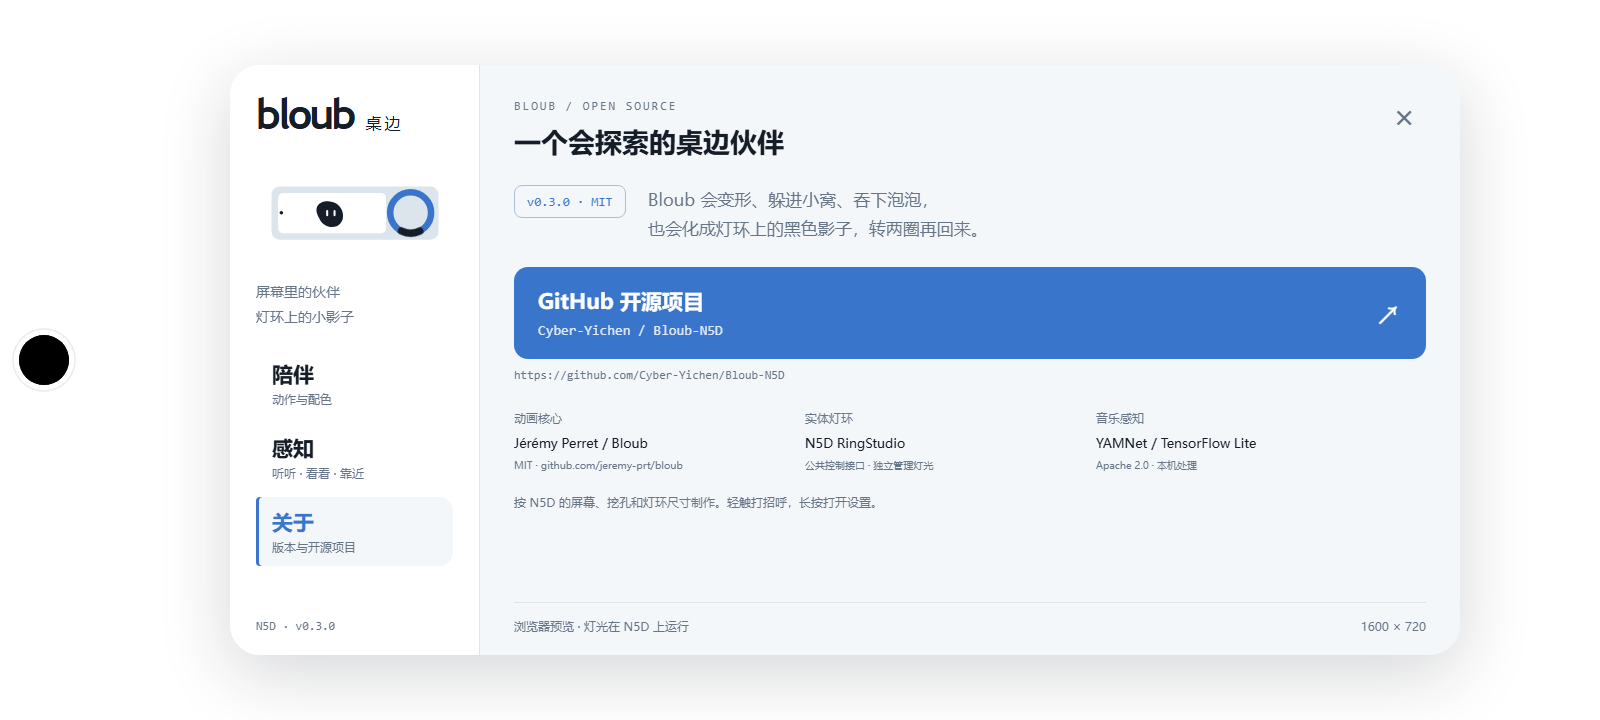
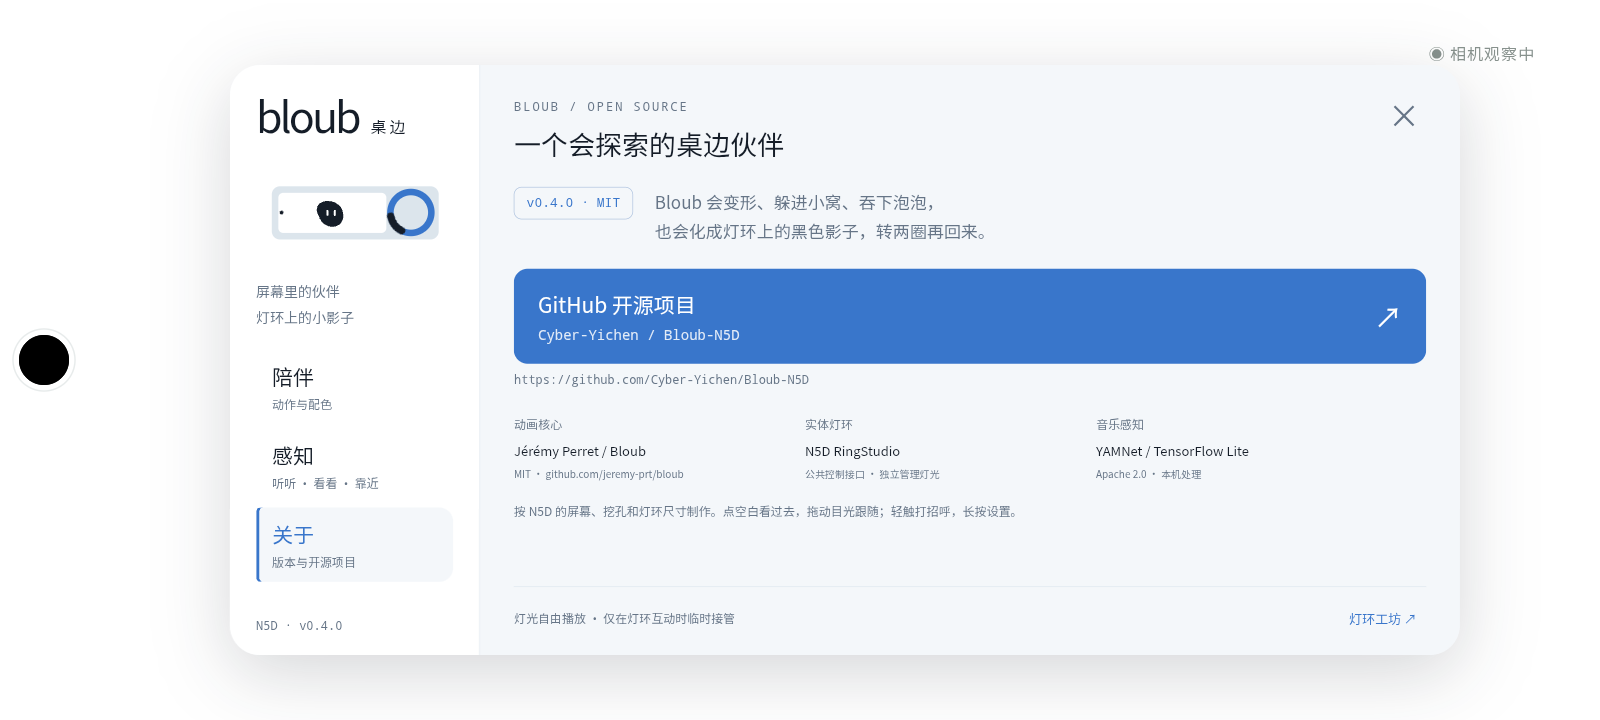
feat: add touch attention and publish open-source references

diff --git a/src/n5d/Companion.vue b/src/n5d/Companion.vue
@@ -1,6 +1,7 @@
 <script setup lang="ts">
 import { computed, onBeforeUnmount, onMounted, ref } from 'vue'
 import Avatar from './Avatar.vue'
+import { stagePoint,TouchAttention,type Point } from './interaction'
 import SettingsDock from './SettingsDock.vue'
 import { PROJECT } from './project'
 import Atmosphere from './Atmosphere.vue'
@@ -36,6 +37,11 @@ const themeChange=ref<{at:number;from:Palette}|null>(null)
 const brightness = ref(Number(load('n5d.brightness','42')))
 const panel = ref(false), hint = ref(true), status = ref(window.N5D ? '正在连接灯环' : '浏览器预览 · 灯光在 N5D 上运行')
 const seed=Math.floor(Math.random()*0x7fffffff)
+const stage=ref<HTMLDivElement|null>(null),avatar=ref<InstanceType<typeof Avatar>|null>(null)
+const attention=new TouchAttention(),look=ref({yaw:12,pitch:8,weight:0})
+const taps=ref<(Point&{at:number;id:number})[]>([]),pokeAt=ref(-100)
+let tapId=0
+let gesture:{id:number;body:boolean;moved:boolean}|null=null
 const paletteClock=ref(0)
 const clock = ref(0), zoom = ref(1), interactionUntil = ref(-1), userState = ref<CompanionState|null>(null)
 const palette=computed(()=>{
@@ -53,7 +59,17 @@ const story=computed(()=>{
 })
 const scene=computed(()=>reactScene(story.value,clock.value,musicStrength.value,nearStrength.value,sensorData.value,calm.value))
 const musicShown=computed(()=>!calm.value&&!story.value.lightActive&&story.value.portal<.05&&story.value.sleep<.5&&story.value.x>500&&story.value.x<1250?musicStrength.value:0)
-const pose=computed(()=>userState.value ? externalPose(userState.value) : clock.value<interactionUntil.value ? {state:'wink' as const,expression:'heureux' as const} : scene.value)
+const pose=computed(()=>{
+  if(userState.value)return externalPose(userState.value)
+  // Finish one-shot transformations before accepting a new greeting.
+  if(scene.value.state==='idle'&&clock.value<interactionUntil.value)return {state:'wink' as const,expression:'heureux' as const}
+  return look.value.weight>.15&&scene.value.state==='idle'?{...scene.value,expression:'attentif' as const}:scene.value
+})
+const gaze=computed(()=>look.value.weight>0?look.value:{yaw:scene.value.yaw,pitch:scene.value.pitch,weight:0})
+const poke=computed(()=>{
+  const age=(paletteClock.value-pokeAt.value)/.75
+  return !reduced&&!calm.value&&age>0&&age<1?1+.065*Math.sin(age*Math.PI)*Math.sin(age*Math.PI):1
+})
 const portalOpacity=computed(()=>.2+.7*scene.value.portal)
 // Without a working light session the excursion stays visible near the right edge.
 const displayPosition=computed(()=>{
@@ -63,7 +79,7 @@ const displayPosition=computed(()=>{
   const x=1230+(s.x-1230)/(1+((s.x-1230)/160)**3)**(1/3),y=360+(s.y-360)*(1-.6*u)
   return {x:x+(s.x-x)*ringBlend.value,y:y+(s.y-y)*ringBlend.value}
 })
-const bodyStyle=computed(()=>({transform:`translate(${displayPosition.value.x}px,${displayPosition.value.y}px) rotate(${scene.value.rotation}deg) scale(${scene.value.scale*scene.value.squash},${scene.value.scale/scene.value.squash})`}))
+const bodyStyle=computed(()=>({transform:`translate(${displayPosition.value.x}px,${displayPosition.value.y}px) rotate(${scene.value.rotation}deg) scale(${scene.value.scale*scene.value.squash*poke.value},${scene.value.scale/scene.value.squash/poke.value})`}))
 
 const resize=()=>{zoom.value=Math.min(innerWidth/GEOMETRY.width,innerHeight/GEOMETRY.height)}
 function toggleCalm(){modeChange.value={at:clock.value,from:{...scene.value}};calm.value=!calm.value;save('n5d.calm',String(calm.value))}
@@ -72,15 +88,38 @@ function changeBrightness(value:number){brightness.value=value;setBrightness()}
 function openProject(){if(native)native.openProject();else window.open(PROJECT.github,'_blank','noopener,noreferrer')}
 function setBrightness(){save('n5d.brightness',String(brightness.value));window.N5D?.brightness(brightness.value/100)}
 function setTheme(id:ThemeId){themeChange.value={at:paletteClock.value,from:{...palette.value}};theme.value=id;save('n5d.theme',id)}
+function touchPoint(e:PointerEvent){return stage.value?stagePoint({x:e.clientX,y:e.clientY},stage.value.getBoundingClientRect()):null}
+function ripple(point:Point){taps.value=[...taps.value.slice(-3),{...point,at:paletteClock.value,id:++tapId}]}
 function pointerDown(e:PointerEvent){
-  if(panel.value)return
+  if(panel.value||gesture||!e.isPrimary||e.button!==0)return
+  const point=touchPoint(e);if(!point)return
   downX=e.clientX;downY=e.clientY;longPressed=false
-  hold=window.setTimeout(()=>{longPressed=true;panel.value=true;hint.value=false},650)
+  gesture={id:e.pointerId,body:avatar.value?.hitTest(e.clientX,e.clientY)??false,moved:false}
+  ;(e.currentTarget as HTMLElement).setPointerCapture?.(e.pointerId)
+  if(!gesture.body){attention.aim(point,paletteClock.value,true);ripple(point)}
+  hold=window.setTimeout(()=>{
+    longPressed=true;panel.value=true;hint.value=false
+    attention.cancel(paletteClock.value);gesture=null;taps.value=[]
+  },650)
 }
-function pointerMove(e:PointerEvent){if(Math.hypot(e.clientX-downX,e.clientY-downY)>20)clearTimeout(hold)}
+function pointerMove(e:PointerEvent){
+  if(!gesture||gesture.id!==e.pointerId||panel.value)return
+  if(Math.hypot(e.clientX-downX,e.clientY-downY)>20){gesture.moved=true;clearTimeout(hold)}
+  if(gesture.moved){const point=touchPoint(e);if(point)attention.aim(point,paletteClock.value,true)}
+}
 function cancelHold(){clearTimeout(hold)}
-function pointerUp(){clearTimeout(hold);if(!longPressed&&!panel.value)interactionUntil.value=clock.value+2.2}
-function key(e:KeyboardEvent){if(e.key==='Escape'){panel.value=!panel.value}else if(e.key===' '&&!panel.value){e.preventDefault();interactionUntil.value=clock.value+2.2}}
+function cancelGesture(){cancelHold();if(gesture){attention.cancel(paletteClock.value);gesture=null}}
+function pointerUp(e:PointerEvent){
+  cancelHold();if(!gesture||gesture.id!==e.pointerId)return
+  const ended=gesture;gesture=null
+  if(longPressed||panel.value)return
+  if(ended.body&&!ended.moved){
+    attention.cancel(paletteClock.value)
+    interactionUntil.value=clock.value+2.2
+    if(!scene.value.lightActive&&scene.value.portal<.05&&scene.value.state==='idle')pokeAt.value=paletteClock.value
+  }else attention.release(paletteClock.value)
+}
+function key(e:KeyboardEvent){if(e.key==='Escape'){panel.value=!panel.value;cancelGesture();attention.cancel(paletteClock.value);taps.value=[]}else if(e.key===' '&&!panel.value){e.preventDefault();interactionUntil.value=clock.value+2.2}}
 function tick(ms:number){
   raf=requestAnimationFrame(tick)
   if(document.hidden){previous=ms;return}
@@ -98,6 +137,9 @@ function tick(ms:number){
   nearStrength.value+=(nearTarget-nearStrength.value)*(1-Math.exp(-dt/.9))
   if(!calm.value&&nearStrength.value>.65&&clock.value-lastHello>18&&story.value.x<1300&&story.value.x>500&&!story.value.lightActive){interactionUntil.value=clock.value+2.2;lastHello=clock.value}
 
+  if(panel.value)attention.cancel(paletteClock.value)
+  look.value=attention.update(dt,paletteClock.value,{...scene.value,...displayPosition.value})
+  if(taps.value.length)taps.value=taps.value.filter(t=>paletteClock.value-t.at<.9)
   if(userState.value&&clock.value>=userUntil)userState.value=null
   if(ms-lastLight>=100){
     lastLight=ms
@@ -115,7 +157,7 @@ onMounted(()=>{
     userState.value=state;userUntil=clock.value+Math.max(.8,Math.min(120,Number.isFinite(duration)?duration:8))
   },reset(){userState.value=null}}
   // Explicit diagnostic URL only; the normal appliance has no seek or speed control.
-  if(new URLSearchParams(location.search).has('debug'))window.n5dDebug={seek(t){if(Number.isFinite(t)){clock.value=Math.max(0,t);paused=true}},resume(){paused=false;previous=0},snapshot(){return {clock:clock.value,...scene.value,lights:lights.value,status:status.value,sensors:{...sensorData.value},musicStrength:musicStrength.value,nearStrength:nearStrength.value}}}
+  if(new URLSearchParams(location.search).has('debug'))window.n5dDebug={seek(t){if(Number.isFinite(t)){clock.value=Math.max(0,t);paused=true}},resume(){paused=false;previous=0},snapshot(){return {clock:clock.value,...scene.value,lights:lights.value,status:status.value,sensors:{...sensorData.value},musicStrength:musicStrength.value,nearStrength:nearStrength.value,look:{...gaze.value},renderState:pose.value.state,touchTarget:attention.target,touchRipples:taps.value.length}}}
   window.N5D?.ready();window.N5D?.brightness(brightness.value/100);window.N5D?.enableLights(lights.value);configureSensors()
   raf=requestAnimationFrame(tick);hintTimer=window.setTimeout(()=>hint.value=false,7000)
 })
@@ -123,11 +165,17 @@ onBeforeUnmount(()=>{cancelAnimationFrame(raf);clearTimeout(hold);clearTimeout(h
 </script>
 
 <template>
-  <main @pointerdown="pointerDown" @pointermove="pointerMove" @pointerup="pointerUp" @pointercancel="cancelHold" :style="{background:palette.paper}">
-    <div class="stage" :style="{transform:`translate(-50%,-50%) scale(${zoom})`,background:palette.paper}">
+  <main @pointerdown="pointerDown" @pointermove="pointerMove" @pointerup="pointerUp" @pointercancel="cancelGesture" @lostpointercapture="cancelGesture" :style="{background:palette.paper}">
+    <div ref="stage" class="stage" :style="{transform:`translate(-50%,-50%) scale(${zoom})`,background:palette.paper}">
       <Atmosphere :scene="scene" :palette="palette" :music="musicShown" :bubbles-enabled="!calm"/>
+      <svg v-if="!panel&&taps.length" class="touch-feedback" viewBox="0 0 1600 720" aria-hidden="true">
+        <g v-for="tap in taps" :key="tap.id" :opacity="Math.max(0,1-(paletteClock-tap.at)/.9)" :stroke="palette.rim" fill="none">
+          <circle :cx="tap.x" :cy="tap.y" :r="reduced?9:9+36*smooth((paletteClock-tap.at)/.9)" stroke-width="1.6"/>
+          <circle :cx="tap.x" :cy="tap.y" r="3" :fill="palette.rim" stroke="none"/>
+        </g>
+      </svg>
       <div class="companion-position" :style="bodyStyle">
-        <Avatar :time="clock" :local="scene.local" :shape="scene.shape" :state="pose.state" :expression="pose.expression" :yaw="scene.yaw" :pitch="scene.pitch" :palette="palette"/>
+        <Avatar ref="avatar" :time="clock" :local="scene.local" :shape="scene.shape" :state="pose.state" :expression="pose.expression" :yaw="gaze.yaw" :pitch="gaze.pitch" :palette="palette"/>
       </div>
       <svg class="aperture" viewBox="0 0 1600 720" aria-hidden="true">
         <g :opacity="portalOpacity" fill="none" :stroke="palette.rim">
@@ -145,7 +193,7 @@ onBeforeUnmount(()=>{cancelAnimationFrame(raf);clearTimeout(hold);clearTimeout(h
         <circle cx="44" cy="360" r="25" fill="#000"/>
       </svg>
       <Transition name="fade"><p v-if="sensorData.cameraOn" class="camera-observation" :style="{color:palette.quiet}">◉ 相机观察中</p></Transition>
-      <Transition name="fade"><p v-if="hint&&!panel" class="hint" :style="{color:palette.quiet}">轻触打个招呼 · 长按打开设置</p></Transition>
+      <Transition name="fade"><p v-if="hint&&!panel" class="hint" :style="{color:palette.quiet}">点空白看过去 · 轻触打招呼 · 长按设置</p></Transition>
       <Transition name="panel">
         <SettingsDock v-if="panel" :calm="calm" :lights="lights" :brightness="brightness" :theme="theme"
           :mic="mic" :camera="camera" :tof="tof" :sensors="sensorData" :status="status" :native="!!native"

diff --git a/src/n5d/style.css b/src/n5d/style.css
@@ -8,14 +8,16 @@ button,input{font:inherit}button{cursor:pointer;color:inherit;background:transpa
 .wordmark{font-family:"Trebuchet MS",sans-serif;font-size:43px;font-weight:700;letter-spacing:-3px;line-height:1}.wordmark span{font-family:"Noto Sans CJK SC","Microsoft YaHei",sans-serif;font-size:16px;letter-spacing:3px;font-weight:500;margin-left:12px}
 .desk-signature{width:198px;height:135px;margin-top:8px;flex-shrink:0}.signature-shadow{transform-origin:178px 84px;animation:shadow-turn 10s linear infinite}@keyframes shadow-turn{to{transform:rotate(360deg)}}.rail-note{font-size:14px;color:var(--muted);line-height:1.8;margin:0 0 20px}
 .dock-rail nav{display:flex;flex-direction:column;gap:5px}.dock-rail nav button{text-align:left;padding:11px 16px;min-height:64px}.dock-rail nav span{font-size:21px;font-weight:600}.dock-rail nav small{font-size:12px;color:var(--muted);margin-top:4px}.dock-rail nav [aria-current=page]{background:var(--sheet);box-shadow:inset 3px 0 var(--blue);border-radius:4px 14px 14px 4px;color:var(--blue)}.rail-version{font-family:Consolas,monospace;font-size:12px;color:var(--muted);margin-top:auto;padding-top:15px}
-.dock-content{padding:28px 34px 20px;flex:1;min-width:0;display:flex;flex-direction:column}.dock-head{display:flex;justify-content:space-between;align-items:flex-start;gap:20px;margin-bottom:24px}.eyebrow{font-family:Consolas,monospace;font-size:12px;letter-spacing:2px;color:var(--muted)}h1{font-size:27px;font-weight:600;margin:9px 0 0;line-height:1.4}.close{font-size:32px;width:44px;min-height:44px;line-height:1;padding:0;color:var(--muted)}.dock-body{flex:1;min-height:0}
+.dock-content{padding:28px 34px 20px;flex:1;min-width:0;display:flex;flex-direction:column}.dock-head{display:flex;justify-content:space-between;align-items:flex-start;gap:20px;margin-bottom:24px}.eyebrow{font-family:Consolas,monospace;font-size:12px;letter-spacing:2px;color:var(--muted)}h1{font-size:27px;font-weight:600;margin:9px 0 0;line-height:1.4}.close{font-size:32px;width:44px;min-height:44px;line-height:1;padding:0;color:var(--muted)}.dock-body{flex:1;min-height:0;overflow-y:auto}
 .settings-row{display:grid;grid-template-columns:1fr 1fr;gap:16px}.setting-card{border:1px solid var(--line);background:var(--white);padding:20px;text-align:left;min-height:125px}.setting-card>span{display:flex;align-items:center;justify-content:space-between;font-size:15px;color:var(--muted);margin-bottom:10px}.setting-card strong{font-size:21px;font-weight:600}.setting-card small{font-size:12px;color:var(--muted);margin-top:10px}.setting-card[aria-pressed=true]{border-color:#a8bedc}
 .switch{display:inline-block;width:37px;height:21px;border-radius:12px;background:#becad6;position:relative;flex-shrink:0}.switch:after{content:"";position:absolute;width:15px;height:15px;border-radius:50%;top:3px;left:3px;background:var(--white);transition:transform .2s}.switch.on{background:var(--blue)}.switch.on:after{transform:translateX(16px)}
 .section-title{display:flex;align-items:center;justify-content:space-between;margin:23px 0 12px}.section-title h2{font-size:17px;margin:0;font-weight:600}.section-title span{font-size:12px;color:var(--muted)}
 .theme-row{display:flex;gap:10px}.theme-row button{flex:1;text-align:center;border:1px solid var(--line);padding:12px 5px;background:var(--white);min-width:0}.theme-row button[aria-pressed=true]{border-color:var(--blue);box-shadow:inset 0 0 0 1px var(--blue)}.theme-row i{display:flex;width:46px;height:38px;border-radius:9px;align-items:center;justify-content:center;margin:0 auto 10px;border:1px solid var(--line)}.theme-row i b{width:21px;height:21px;border-radius:50%}.theme-row span{font-size:12px;white-space:nowrap}.auto-swatch{font-style:normal;font-size:29px;color:var(--blue)}
 .brightness{display:flex;align-items:center;gap:20px;margin-top:27px;font-size:15px;color:var(--muted)}.brightness input{flex:1;min-width:0;height:24px;accent-color:var(--blue);cursor:pointer}.brightness b{font-family:Consolas,monospace;width:45px;text-align:right;font-weight:400;color:var(--ink)}
 .panel-foot{display:flex;align-items:center;justify-content:space-between;gap:16px;border-top:1px solid var(--line);padding-top:14px;margin-top:20px;font-size:12px;color:var(--muted)}.panel-foot p{margin:0;line-height:1.5}.link{color:var(--blue);padding:5px 9px;font-size:13px;min-height:34px;white-space:nowrap}
-.section-description{font-size:15px;color:var(--muted);margin:0 0 14px}.sense-list{display:flex;flex-direction:column;gap:9px}.sense-list button{display:flex;align-items:center;justify-content:space-between;padding:16px 20px;background:var(--white);border:1px solid var(--line);text-align:left;gap:20px}.sense-list strong{font-size:18px;font-weight:600}.sense-list span{display:block;font-size:13px;color:var(--muted);margin-top:6px}.sense-list small{font-family:Consolas,"Microsoft YaHei",monospace;font-size:11px;color:var(--blue);margin-top:6px}.privacy-note{font-size:12px;color:var(--muted);line-height:1.7;margin-top:16px}
+.section-description{font-size:15px;color:var(--muted);margin:0 0 14px}.sense-list{display:flex;flex-direction:column;gap:9px}.sense-list button{display:flex;align-items:center;justify-content:space-between;padding:8px 20px;background:var(--white);border:1px solid var(--line);text-align:left;gap:20px}.sense-list strong{font-size:18px;font-weight:600}.sense-list span{display:block;font-size:13px;color:var(--muted);margin-top:6px}.sense-list small{font-family:Consolas,"Microsoft YaHei",monospace;font-size:11px;color:var(--blue);margin-top:6px}.privacy-note{font-size:12px;color:var(--muted);line-height:1.7;margin-top:16px}
 .about-intro{display:flex;align-items:flex-start;gap:22px}.version-pill{font-family:Consolas,monospace;font-size:13px;color:var(--blue);border:1px solid #a8bedc;padding:8px 12px;border-radius:8px;white-space:nowrap}.about-intro p{font-size:17px;line-height:1.7;margin:0;color:var(--muted)}.github-card{display:flex;width:100%;align-items:center;justify-content:space-between;margin-top:24px;padding:20px 24px;background:var(--blue);color:var(--white);text-align:left}.github-card:hover:not(:disabled){background:#326ab7}.github-card strong{font-size:21px;font-weight:600}.github-card small{font-family:Consolas,monospace;font-size:14px;margin-top:8px;opacity:.85}.github-card>b{font-size:28px;font-weight:400}.project-url{font-family:Consolas,monospace;font-size:12px;color:var(--muted);margin:9px 0 24px;user-select:text;-webkit-user-select:text}.credits{display:grid;grid-template-columns:1fr 1fr 1.2fr;gap:16px}.credits span{font-size:12px;color:var(--muted)}.credits strong{display:block;font-size:13px;font-weight:500;margin-top:7px}.credits small{display:block;font-size:10px;color:var(--muted);margin-top:6px;line-height:1.7}.about-note{font-size:12px;color:var(--muted);margin-top:20px}
 .fade-enter-active,.fade-leave-active{transition:opacity 1s}.fade-enter-from,.fade-leave-to{opacity:0}.panel-enter-active,.panel-leave-active{transition:opacity .25s,transform .25s}.panel-enter-from,.panel-leave-to{opacity:0;transform:translateY(14px)}
 @media(prefers-reduced-motion:reduce){.signature-shadow{animation:none}.switch:after,.fade-enter-active,.fade-leave-active,.panel-enter-active,.panel-leave-active{transition:none}}
+
+.touch-feedback{position:absolute;inset:0;width:100%;height:100%;pointer-events:none}

diff --git a/src/n5d/interaction.ts b/src/n5d/interaction.ts
@@ -1,0 +1,48 @@
+import { GEOMETRY } from './scene'
+export interface Point {x:number;y:number}
+export interface BodyPose extends Point {scale:number;rotation:number;squash:number;yaw:number;pitch:number}
+const clamp=(v:number,min:number,max:number)=>Math.max(min,Math.min(max,v))
+/** The stage is letterboxed and scaled; CSS viewport coordinates are not device pixels. */
+export function stagePoint(client:Point,box:{left:number;top:number;width:number;height:number}):Point|null{
+  if(!Number.isFinite(client.x+client.y+box.left+box.top+box.width+box.height)||box.width<=0||box.height<=0)return null
+  const p={x:(client.x-box.left)*GEOMETRY.width/box.width,y:(client.y-box.top)*GEOMETRY.height/box.height}
+  if(p.x<0||p.x>GEOMETRY.width||p.y<0||p.y>GEOMETRY.height)return null
+  if(Math.hypot(p.x-GEOMETRY.holeX,p.y-GEOMETRY.holeY)<=GEOMETRY.holeRadius+1)return null
+  return p
+}
+/** Undo the body rotation/squash so dancing eyes still aim at a fixed screen point.
+ * Upstream positive pitch points UP, while screen y points down. */
+export function gazeToward(point:Point,body:BodyPose){
+  const a=body.rotation*Math.PI/180,dx=point.x-body.x,dy=point.y-body.y
+  const squash=Math.max(.1,body.squash),depth=420*Math.max(.25,body.scale)
+  const x=(Math.cos(a)*dx+Math.sin(a)*dy)/squash
+  const y=(-Math.sin(a)*dx+Math.cos(a)*dy)*squash
+  return {yaw:clamp(Math.atan2(x,depth)*180/Math.PI,-38,38),pitch:clamp(-Math.atan2(y,depth)*180/Math.PI,-24,24)}
+}
+/** Bounded temporary attention; retargeting never resets the displayed direction. */
+export class TouchAttention {
+  target:Point|null=null
+  private held=false
+  private until=0
+  private weight=0
+  private yaw=0
+  private pitch=0
+  aim(point:Point,now:number,held=false){
+    if(!Number.isFinite(point.x+point.y+now))return
+    this.target={...point};this.held=held;this.until=now+3.2
+  }
+  release(now:number){this.held=false;this.until=now+3.2}
+  cancel(now:number){this.held=false;this.until=now;this.target=null}
+  update(dt:number,now:number,body:BodyPose){
+    const step=Number.isFinite(dt)?clamp(dt,0,.1):0
+    const active=this.target!==null&&(this.held||now<this.until)
+    if(this.weight<.0001){this.yaw=body.yaw;this.pitch=body.pitch}
+    if(this.target){
+      const goal=gazeToward(this.target,body),u=1-Math.exp(-step/.22)
+      this.yaw+=(goal.yaw-this.yaw)*u;this.pitch+=(goal.pitch-this.pitch)*u
+    }
+    this.weight+=((active?1:0)-this.weight)*(1-Math.exp(-step/(active?.16:.55)))
+    if(!active&&this.weight<.001){this.weight=0;this.target=null}
+    return {yaw:body.yaw+(this.yaw-body.yaw)*this.weight,pitch:body.pitch+(this.pitch-body.pitch)*this.weight,weight:this.weight}
+  }
+}

diff --git a/src/n5d/interaction.test.ts b/src/n5d/interaction.test.ts
@@ -1,0 +1,41 @@
+import { describe,it,expect } from 'vitest'
+import { stagePoint,gazeToward,TouchAttention,type BodyPose } from './interaction'
+const body:BodyPose={x:820,y:350,scale:1,rotation:0,squash:1,yaw:12,pitch:8}
+describe('screen attention',()=>{
+  it('maps a scaled, offset stage exactly and ignores letterbox/physical hole/invalid geometry',()=>{
+    const box={left:80,top:110,width:800,height:360}
+    expect(stagePoint({x:680,y:210},box)).toEqual({x:1200,y:200})
+    expect(stagePoint({x:79,y:210},box)).toBeNull()
+    expect(stagePoint({x:102,y:290},box)).toBeNull()
+    expect(stagePoint({x:400,y:100},{...box,width:0})).toBeNull()
+    expect(stagePoint({x:NaN,y:200},box)).toBeNull()
+  })
+  it('looks left/right/up/down using the upstream pitch direction and bounds far targets',()=>{
+    expect(gazeToward({x:300,y:350},body).yaw).toBeLessThan(-30)
+    expect(gazeToward({x:1300,y:350},body).yaw).toBeGreaterThan(30)
+    expect(gazeToward({x:820,y:80},body).pitch).toBeGreaterThan(18)
+    expect(gazeToward({x:820,y:650},body).pitch).toBeLessThan(-18)
+    expect(gazeToward({x:1e9,y:-1e9},body)).toEqual({yaw:38,pitch:24})
+    expect(gazeToward({x:820,y:200},{...body,rotation:90}).yaw).toBeLessThan(0)
+  })
+  it('retargets smoothly, follows a moving body, holds briefly and returns without retaining old touches',()=>{
+    const look=new TouchAttention();look.aim({x:1300,y:350},0)
+    let previous=look.update(0,0,body)
+    expect(previous.yaw).toBe(body.yaw)
+    for(let i=1;i<=30;i++){const next=look.update(1/30,i/30,body);expect(Math.abs(next.yaw-previous.yaw)).toBeLessThan(7);previous=next}
+    expect(previous.yaw).toBeGreaterThan(35)
+    look.aim({x:300,y:350},1)
+    const retarget=look.update(1/30,1+1/30,body)
+    expect(Math.abs(retarget.yaw-previous.yaw)).toBeLessThan(20)
+    for(let i=32;i<400;i++)previous=look.update(1/30,i/30,body)
+    expect(look.target).toBeNull();expect(previous).toEqual({yaw:body.yaw,pitch:body.pitch,weight:0})
+  })
+  it('keeps following during a long drag, then fades after cancellation',()=>{
+    const look=new TouchAttention();look.aim({x:1300,y:100},0,true)
+    for(let i=0;i<300;i++)look.update(1/30,i/30,body)
+    expect(look.update(1/30,10,body).weight).toBeGreaterThan(.99)
+    look.cancel(10)
+    for(let i=301;i<480;i++)look.update(1/30,i/30,body)
+    expect(look.target).toBeNull()
+  })
+})

diff --git a/src/n5d/Avatar.vue b/src/n5d/Avatar.vue
@@ -1,5 +1,5 @@
 <script setup lang="ts">
-import { computed, shallowRef, triggerRef, watch } from 'vue'
+import { computed, ref, shallowRef, triggerRef, watch } from 'vue'
 import { BotEngine, type BotFrame } from '../bot/engine'
 import { EXPRESSION_BY_ID, type ExpressionId } from '../bot/expressions'
 import { STATE_BY_ID, type StateId } from '../bot/states'
@@ -8,6 +8,21 @@ import { mixHex } from '../bot/skins'
 import { luminance, type Palette } from './themes'
 
 const props = defineProps<{ time: number; local:number; shape:ShapeId; state: StateId; expression: ExpressionId; yaw: number; pitch: number; palette:Palette }>()
+const silhouette=ref<SVGPathElement|null>(null)
+let hitCanvas:CanvasRenderingContext2D|null=null
+function hitTest(clientX:number,clientY:number){
+  const path=silhouette.value,matrix=path?.getScreenCTM(),svg=path?.ownerSVGElement
+  if(!path||!matrix||!svg||frame.value.bodyAlpha<.2)return false
+  try{
+    const point=svg.createSVGPoint();point.x=clientX;point.y=clientY
+    const local=point.matrixTransform(matrix.inverse())
+    if(typeof path.isPointInFill==='function')return path.isPointInFill(local)
+    // Older device WebViews have Path2D but not SVGGeometryElement.isPointInFill.
+    hitCanvas??=document.createElement('canvas').getContext('2d')
+    return hitCanvas?.isPointInPath(new Path2D(frame.value.bodyPath),local.x,local.y)??false
+  }catch{return false}
+}
+defineExpose({hitTest})
 const R = 100
 const engine = new BotEngine(R,'idle',null,EXPRESSION_BY_ID.get('neutre')!)
 const frame = shallowRef<BotFrame>(engine.sample(0))
@@ -51,7 +66,7 @@ const contour=computed(()=>({color:luminance(props.palette.paper)>.5?'#26343b':'
       </template>
     </g>
     <g :opacity="frame.bodyAlpha">
-      <path :d="frame.bodyPath" :fill="props.palette.paper"/>
+      <path ref="silhouette" :d="frame.bodyPath" :fill="props.palette.paper"/>
       <path :d="frame.bodyPath" :fill="props.palette.body" mask="url(#body-mask)"/>
       <path v-if="contour.width>.01" :d="frame.bodyPath" fill="none" :stroke="contour.color" :stroke-width="contour.width"/>
     </g>

diff --git a/src/n5d/SettingsDock.vue b/src/n5d/SettingsDock.vue
@@ -69,7 +69,7 @@ const tab=ref<'companion'|'senses'|'about'>('companion')
         <button class="github-card" @click="emit('project')" aria-label="打开 Bloub-N5D GitHub 项目"><span><strong>GitHub 开源项目</strong><small>Cyber-Yichen / Bloub-N5D</small></span><b>↗</b></button>
         <p class="project-url">{{ PROJECT.github }}</p>
         <div class="credits"><div><span>动画核心</span><strong>Jérémy Perret / Bloub</strong><small>MIT · github.com/jeremy-prt/bloub</small></div><div><span>实体灯环</span><strong>N5D RingStudio</strong><small>公共控制接口 · 独立管理灯光</small></div><div><span>音乐感知</span><strong>YAMNet / TensorFlow Lite</strong><small>Apache 2.0 · 本机处理</small></div></div>
-        <p class="about-note">按 N5D 的屏幕、挖孔和灯环尺寸制作。轻触打招呼，长按打开设置。</p>
+        <p class="about-note">按 N5D 的屏幕、挖孔和灯环尺寸制作。点空白看过去，拖动目光跟随；轻触打招呼，长按设置。</p>
       </div>
       <footer class="panel-foot"><p role="status">{{ status }}</p><button v-if="native" class="link" @click="emit('ring')">灯环工坊 ↗</button><span v-else>1600 × 720</span></footer>
     </div>

diff --git a/src/n5d/project.ts b/src/n5d/project.ts
@@ -1,1 +1,1 @@
-export const PROJECT={name:'Bloub 桌边',version:'0.3.0',github:'https://github.com/Cyber-Yichen/Bloub-N5D',upstream:'https://github.com/jeremy-prt/bloub'} as const
+export const PROJECT={name:'Bloub 桌边',version:'0.4.0',github:'https://github.com/Cyber-Yichen/Bloub-N5D',upstream:'https://github.com/jeremy-prt/bloub'} as const

diff --git a/REFERENCES.md b/REFERENCES.md
@@ -1,0 +1,28 @@
+# 开源来源与参考项目
+
+本页说明每个项目与 Bloub-N5D 的实际关系。公开仓库中的“参考”不等于复制了该项目的代码或素材。
+
+## 实际复用与依赖
+
+| 项目 | 作者 / 维护者 | 本项目用途 | 许可 |
+| --- | --- | --- | --- |
+| [jeremy-prt/bloub](https://github.com/jeremy-prt/bloub) | Jérémy Perret | 实际复用 src/bot 动画核心、形状、表情、Vue 基础工程与上游测试；N5D 故事、硬件适配和触摸交互在其上新增 | [MIT](https://github.com/jeremy-prt/bloub/blob/main/LICENSE)，保留原版权；导入基线 b4bb3c1b5f93c7b87a2e8d620f667c4093d97749 |
+| [Cyber-Yichen/N5D-RingStudio](https://github.com/Cyber-Yichen/N5D-RingStudio) | Cyber-Yichen | 独立安装的灯环服务；调用公共 Messenger API，按其灯位文档生成 RGB / 白灯帧；未把灯光驱动嵌入本 APK | [MIT](https://github.com/Cyber-Yichen/N5D-RingStudio/blob/main/LICENSE)；[接口文档](https://github.com/Cyber-Yichen/N5D-RingStudio/blob/main/docs/control-api.md)、[灯位文档](https://github.com/Cyber-Yichen/N5D-RingStudio/blob/main/docs/light-layout.md) |
+| [TensorFlow / TensorFlow Lite](https://github.com/tensorflow/tensorflow) | TensorFlow contributors | APK 内的 TensorFlow Lite 2.14.0 音频推理运行时 | [Apache 2.0](https://github.com/tensorflow/tensorflow/blob/v2.14.0/LICENSE)，许可打包在 android/assets/TENSORFLOW-LICENSE.txt |
+| [TensorFlow YAMNet](https://github.com/tensorflow/models/tree/master/research/audioset/yamnet) / [官方 Android 音频示例](https://github.com/tensorflow/examples/tree/master/lite/examples/audio_classification/android) | TensorFlow contributors | 本机音乐 / 语音分类模型与官方类目表；固定移动端模型下载来源 | [Apache 2.0](https://github.com/tensorflow/models/blob/master/LICENSE)；资源来源与 SHA256 见 android/dependencies.json |
+| [Vue](https://github.com/vuejs/core) | Vue contributors | 设备界面与动画渲染 | MIT |
+| [Vite](https://github.com/vitejs/vite) / [Tailwind CSS](https://github.com/tailwindlabs/tailwindcss) | 各项目 contributors | 前端构建及保留的上游工作室样式工具 | MIT |
+| [TypeScript](https://github.com/microsoft/TypeScript) | Microsoft / contributors | 前端类型检查 | Apache 2.0 |
+| [Mediabunny](https://github.com/Vanilagy/mediabunny) | Vanilagy / contributors | 保留的上游工作室媒体导出功能；N5D APK 入口不使用该导出模块 | MPL 2.0 |
+
+完整依赖及固定版本见 [package.json](package.json)、[pnpm-lock.yaml](pnpm-lock.yaml)。Android 工具链资源见 [android/dependencies.json](android/dependencies.json)。各依赖的原始许可仍然有效，本项目 MIT 许可不覆盖或改变这些许可。
+
+## 调研参考
+
+| 项目 | 参考内容 | 引入情况 |
+| --- | --- | --- |
+| [iduu/grokbot-animation](https://github.com/iduu/grokbot-animation) | 完整动作生命周期、共享时钟、状态与形状分离 | 仅调研。其 README 明确第三方参考素材未获开源许可；本项目未导入其数据包、素材或运行时 |
+| [nasawz/GrokBot](https://github.com/nasawz/GrokBot) | Flutter 头像中的表情节奏与随机池 | 仅调研，未引入 Flutter 代码或运行时；仓库标注 BSD-3-Clause |
+| [Eyadkelleh/Grok_bot](https://github.com/Eyadkelleh/Grok_bot) | SVG 动作工作室与 Bloub 状态展示 | 仅作为展示参考，未并入代码或素材；不对其许可作未经核实的声明 |
+
+角色视觉来源、商标与使用边界见 [免责声明](DISCLAIMER.md)。感谢上游作者；上述项目的作者并不因此为本项目的新增功能或发布包背书。

diff --git a/N5D-README.md b/N5D-README.md
@@ -1,4 +1,4 @@
-# Bloub 桌边 · 0.3.0 使用与构建
+# Bloub 桌边 · 0.4.0 使用与构建
 
 项目：[Cyber-Yichen/Bloub-N5D](https://github.com/Cyber-Yichen/Bloub-N5D)。上游基线 b4bb3c1b5f93c7b87a2e8d620f667c4093d97749，保留 MIT 许可。
 
@@ -11,6 +11,15 @@
 - **关于**：版本、许可、上游来源，以及本项目 GitHub 入口。交给系统浏览器打开；没有浏览器时复制链接。
 - 打开设置时暂停故事并归还灯环；收起后继续。前台保持亮屏，切后台暂停故事、停止感知并归还灯光。
 - 一轮六分钟持续循环，不需要电脑。未来本地状态接口目前为 window.companion.setState(state,duration)，支持 idle/thinking/success/attention/sleep；没有电脑端监听器。
+
+## 屏幕交互
+
+- 点空白处：Bloub 转头看向触点，触点出现淡涟漪。
+- 按住拖动：目光跟随手指；松手后停留约 3.2 s，再平滑回到剧情目光。
+- 轻触 Bloub：眨眼并轻轻弹一下；已有一次性变形会先完整播放。
+- 长按 650 ms 打开设置；取消手势、打开设置或离开屏幕后不会留下持续跟随。
+- 触点按实际缩放和留边换算到 1600 × 720 坐标；洞口和画布外的输入忽略。命中按当前实际 SVG 轮廓判断，不把整个透明头像框当成 Bot。
+- 跟随只控制目光，不改变灯环轨迹或申请额外灯光会话。
 
 ## 新的两圈动画
 
@@ -65,7 +74,7 @@ WSL 网络不可用时，可以在同一个 checkout 通过 Windows 下载，再
 powershell -ExecutionPolicy Bypass -File android/fetch-model.ps1
 ```
 
-每个依赖的来源、版本和 SHA256 固定在 android/dependencies.json 与 android/dependencies.sha256。构建前验证哈希；输出 android/dist/Bloub-N5D-0.3.0.apk 和 SHA256SUMS.txt。minSdk23、targetSdk27，打包 arm64-v8a TFLite。
+每个依赖的来源、版本和 SHA256 固定在 android/dependencies.json 与 android/dependencies.sha256。构建前验证哈希；输出 android/dist/Bloub-N5D-0.4.0.apk 和 SHA256SUMS.txt。minSdk23、targetSdk27，打包 arm64-v8a TFLite。
 
 开发签名密钥会在本机 android/toolchain/development.jks 自动生成，不提交。不同人的本地开发签名不同；发布包使用维护者的同一签名。产物、工具链、模型下载缓存、设备诊断报告均按 .gitignore 排除；模型与附带许可作为明确的运行资源保留。
 
@@ -85,6 +94,8 @@ ADB 可执行文件可通过 ADB 环境变量指定；多设备连接时指定 N
 
 ## 验证
 
-223 项测试通过，包含两个完整循环、八种形状、两圈匀速、飞行与圆周 C2 交接、双灯列黑色缺口、泡泡增长、动作最短时长、感知叠加范围。设备验证证据记录在本地忽略目录 n5d-reports，不把现场音频、图像或设备地址上传到项目。
+227 项测试通过，包含两个完整循环、八种形状、两圈匀速、飞行与圆周 C2 交接、双灯列黑色缺口、泡泡增长、动作最短时长、感知叠加范围。设备验证证据记录在本地忽略目录 n5d-reports，不把现场音频、图像或设备地址上传到项目。
 
 入环前 Bot 轮廓半径缩至约 70 px / 6.6 mm，匹配黑色缺口的核心尺寸；环上位置和大小由同一几何约束决定。
+
+开源引用与第三方许可见 [REFERENCES.md](REFERENCES.md)，项目边界见 [DISCLAIMER.md](DISCLAIMER.md)。

diff --git a/DISCLAIMER.md b/DISCLAIMER.md
@@ -1,0 +1,25 @@
+# 免责声明
+
+## 独立项目与角色权利
+
+Bloub-N5D 是面向 N5D 的非官方、独立开源桌边动画项目，与 xAI、Grok、设备制造商及其他第三方不存在隶属、授权、赞助或背书关系。文中项目名、商标、标识及角色设计属于各自权利人。
+
+本项目复用了 Jérémy Perret 的 Bloub 代码。上游说明其头像是对 xAI Bot 视觉行为的再现；上游 MIT 许可覆盖其仓库代码，不因此授予所参考角色设计、商标或第三方素材的权利。本项目保留这一区别。发布、再分发或商业使用涉及相关设计、标识或素材时，应自行确认对应权利与许可。
+
+## 软件许可与第三方项目
+
+本项目自有代码依 [MIT License](LICENSE) 按现状提供。许可中的保证与责任条款适用；本说明不增加保证，也不扩大 MIT 或任何第三方许可的授权范围。
+
+复用代码、依赖、独立接口和仅用于调研的项目分别列在 [REFERENCES.md](REFERENCES.md)。各项目保留自己的版权与许可证。公开可访问不等于获得了复制或再分发许可。
+
+## 感知与数据
+
+音乐、语音、脸部方向、动作和距离的判断可能误判，取决于模型、光照、环境声音、距离与传感器状态。本应用提供动画反应，不判断真实内心情绪，不识别身份，不用于医疗、心理评估或安全决策。
+
+当前版本音频与画面只在本机内存处理，不保存、不上传；APK 没有网络权限。用户可独立关闭麦克风、相机与 ToF；切到后台会停止感知。未来版本若改变数据处理方式，应另行说明。
+
+## 设备适配与硬件接口
+
+本版针对记录的 N5D 屏幕、挖孔与灯环几何制作，部分尺寸来自正面估计；不保证其他设备或系统版本具有相同效果。灯光通过 RingStudio 公共 API 临时申请控制，结束后归还。
+
+ToF 的可选 helper 需要本应用的实际 Magisk 授权，仅用于读取固定距离节点。未授权或数据无效时，相关感应保持不可用；动画可继续运行。NPU 加速以实际设备日志为准，本项目不宣称整模型已在 NPU 执行。
